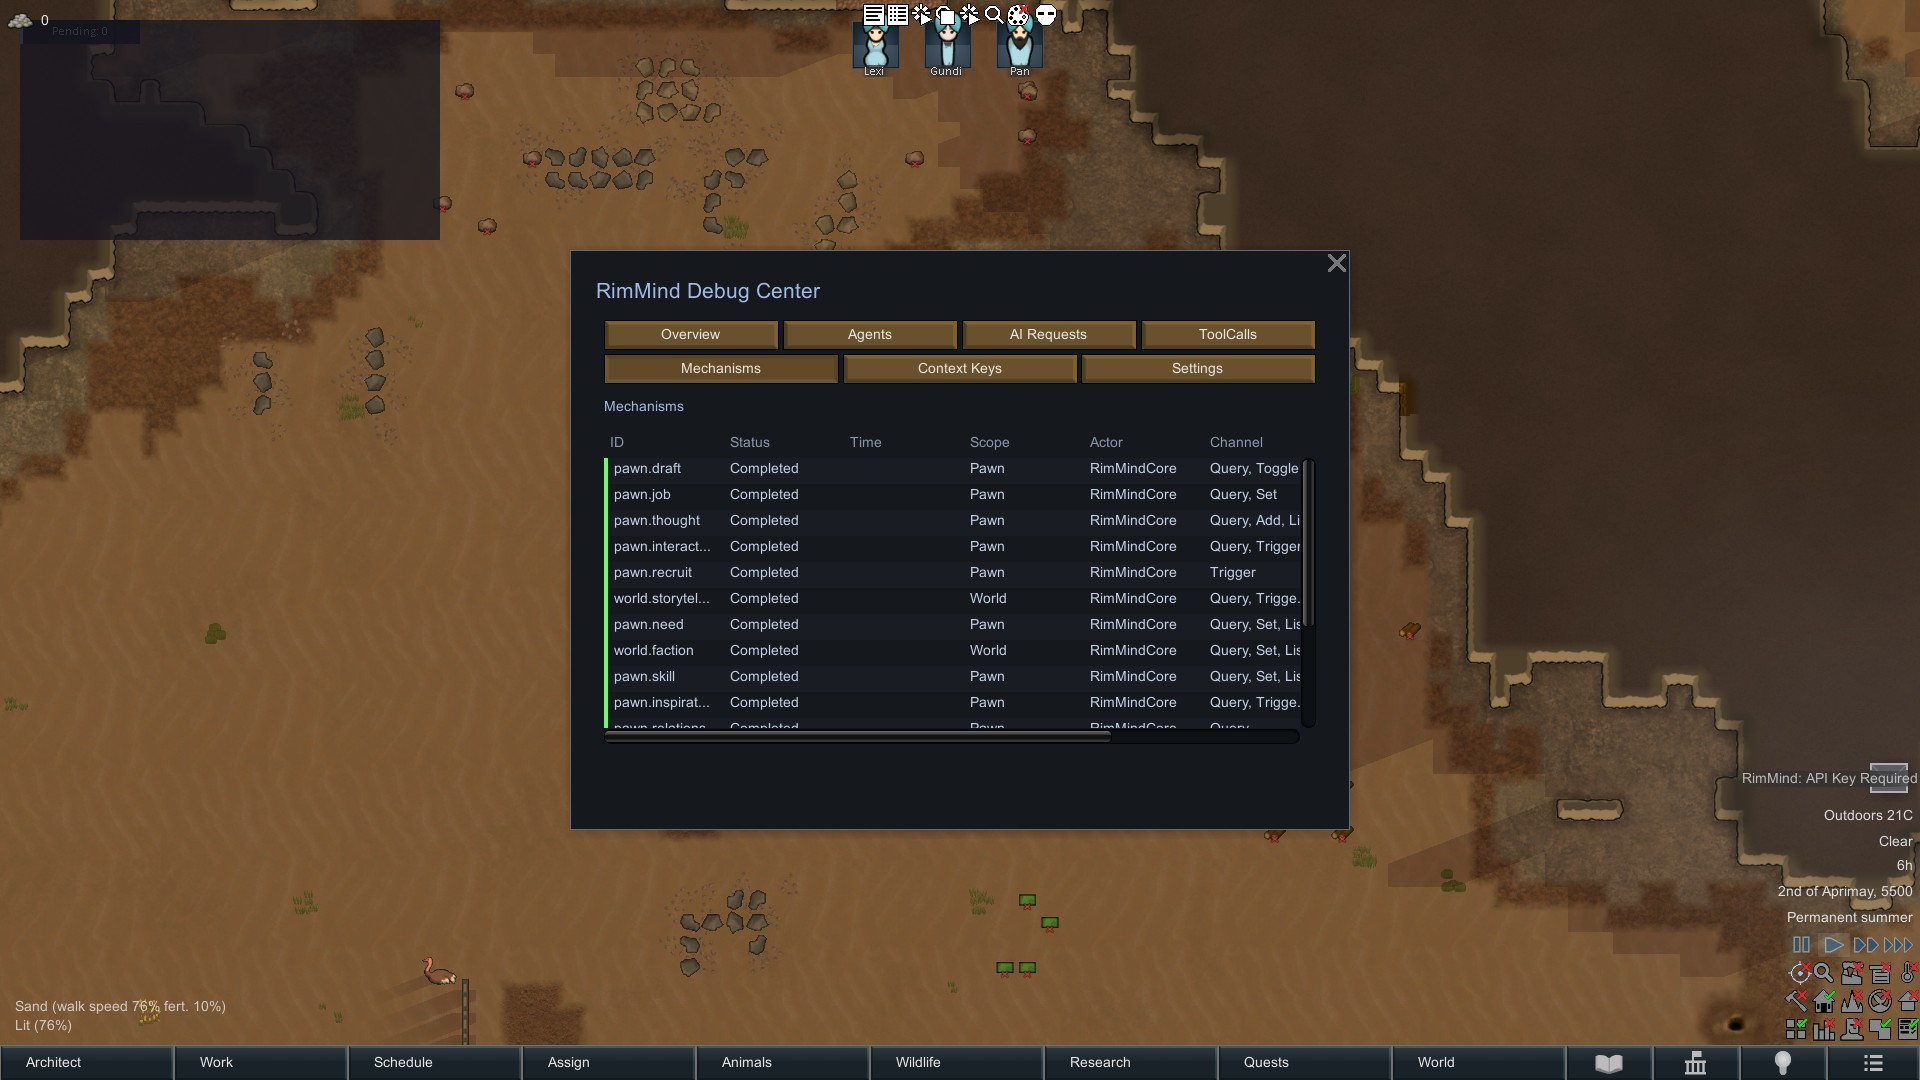
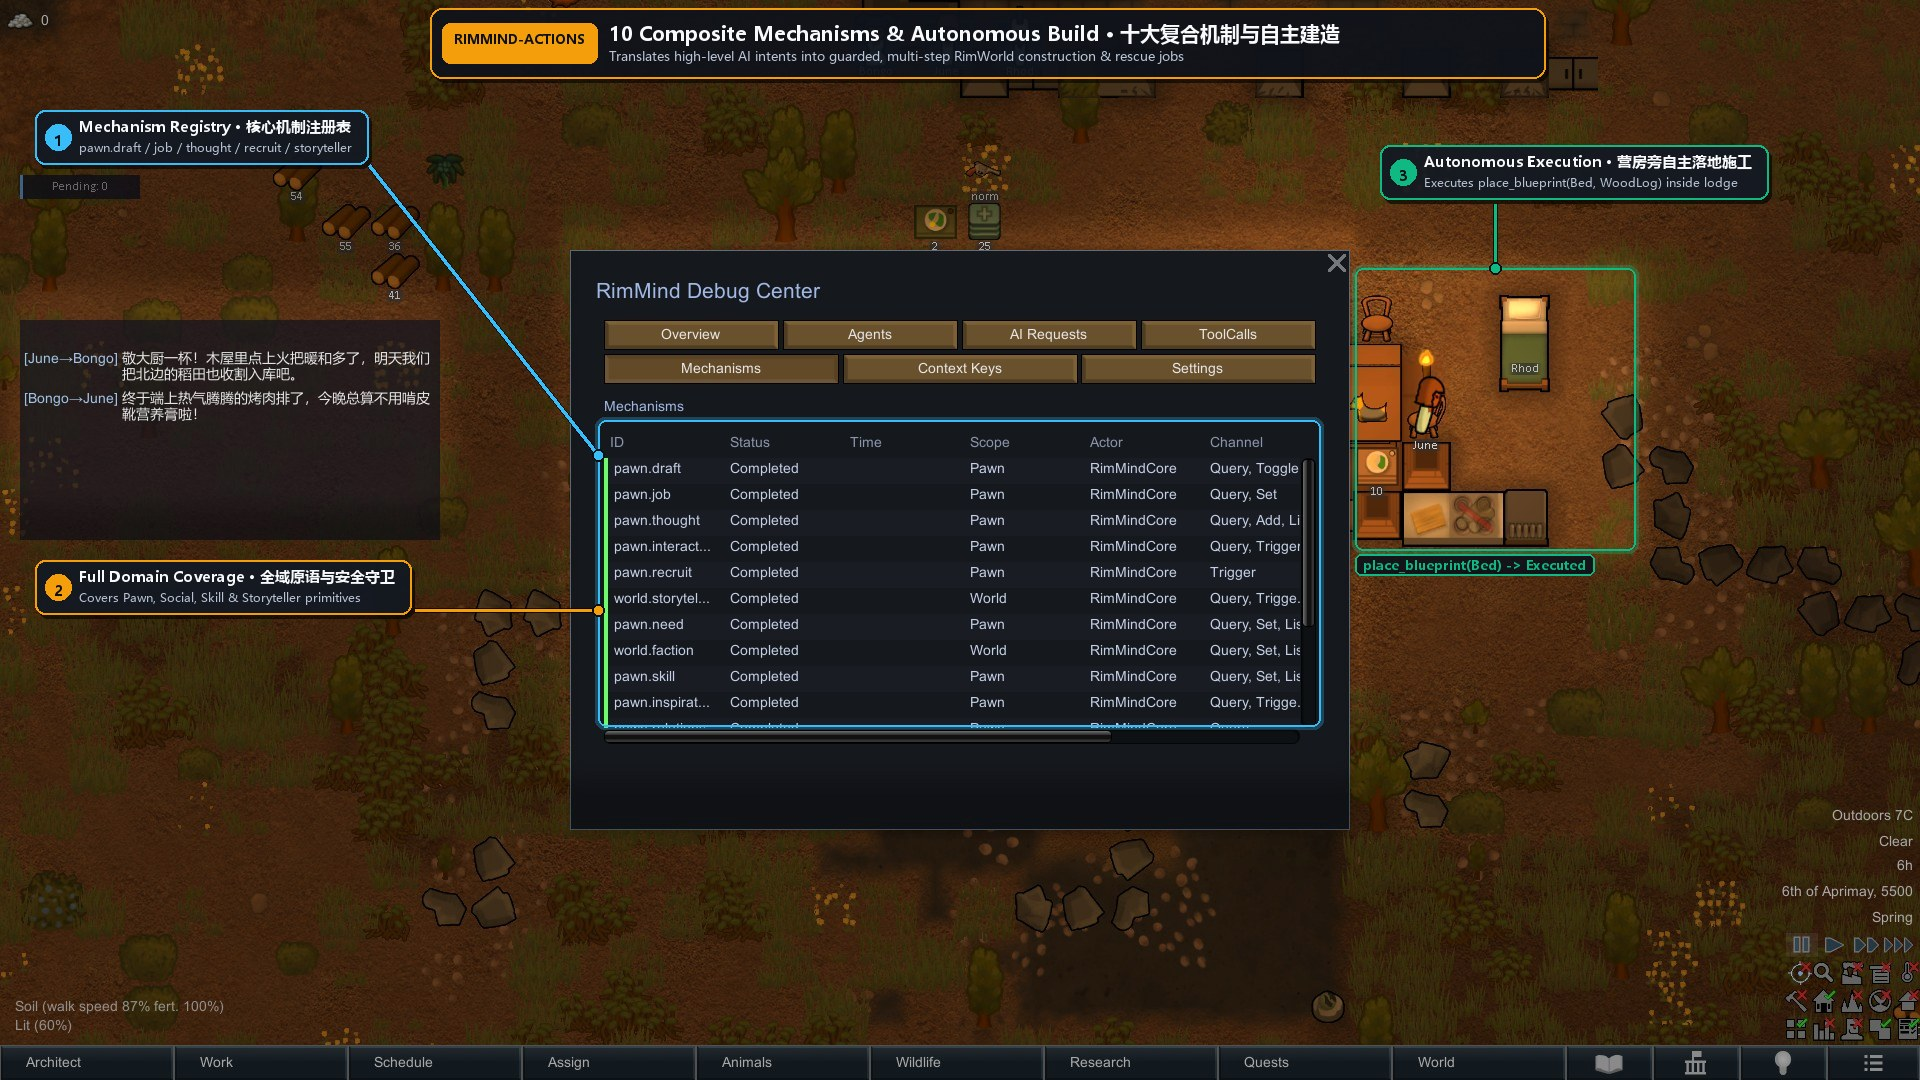
docs(showcase): update annotated in-game showcase image and bilingual captions (#19)
docs: update showcase image and captions to mechanisms registry demo

Replace the battlefield rescue screenshot with one showing the F8
mechanisms registry alongside autonomous blueprint construction, and
update the English and Chinese captions to match.

diff --git a/README.md b/README.md
@@ -35,7 +35,7 @@
 ## 🎮 In-Game Showcase
 
 ![RimMind-Actions Showcase](docs/images/showcase.jpg)
-*Battlefield emergency intervention in action: An AI-driven colonist rushes through smoke to bandage a fallen friend and carry them to safety.*
+*In-game Mechanisms Registry & Autonomous Execution: Inspecting all 10 registered mechanisms (`pawn.draft`, `pawn.job`, `pawn.thought`, `pawn.interaction`, `pawn.recruit`, `world.storyteller`, etc.) while colonists execute `place_blueprint(Bed, WoodLog)` beside the colony lodge.*
 
 ---
 

diff --git a/README_zh.md b/README_zh.md
@@ -35,7 +35,7 @@
 ## 🎮 实机特性展示
 
 ![RimMind-Actions 实机展示](docs/images/showcase.jpg)
-*战地紧急施救实机场景：AI 殖民者冒着硝烟快速为倒地队友止血，并协作转运至医疗床。*
+*复合机制注册表与自主施工实机场景：在 F8 控制台检视全部 10 项已注册机制（`pawn.draft`、`pawn.job`、`pawn.thought` 等），同时殖民者在木制营房旁自主执行 `place_blueprint(Bed, WoodLog)` 蓝图建造任务。*
 
 ---
 
